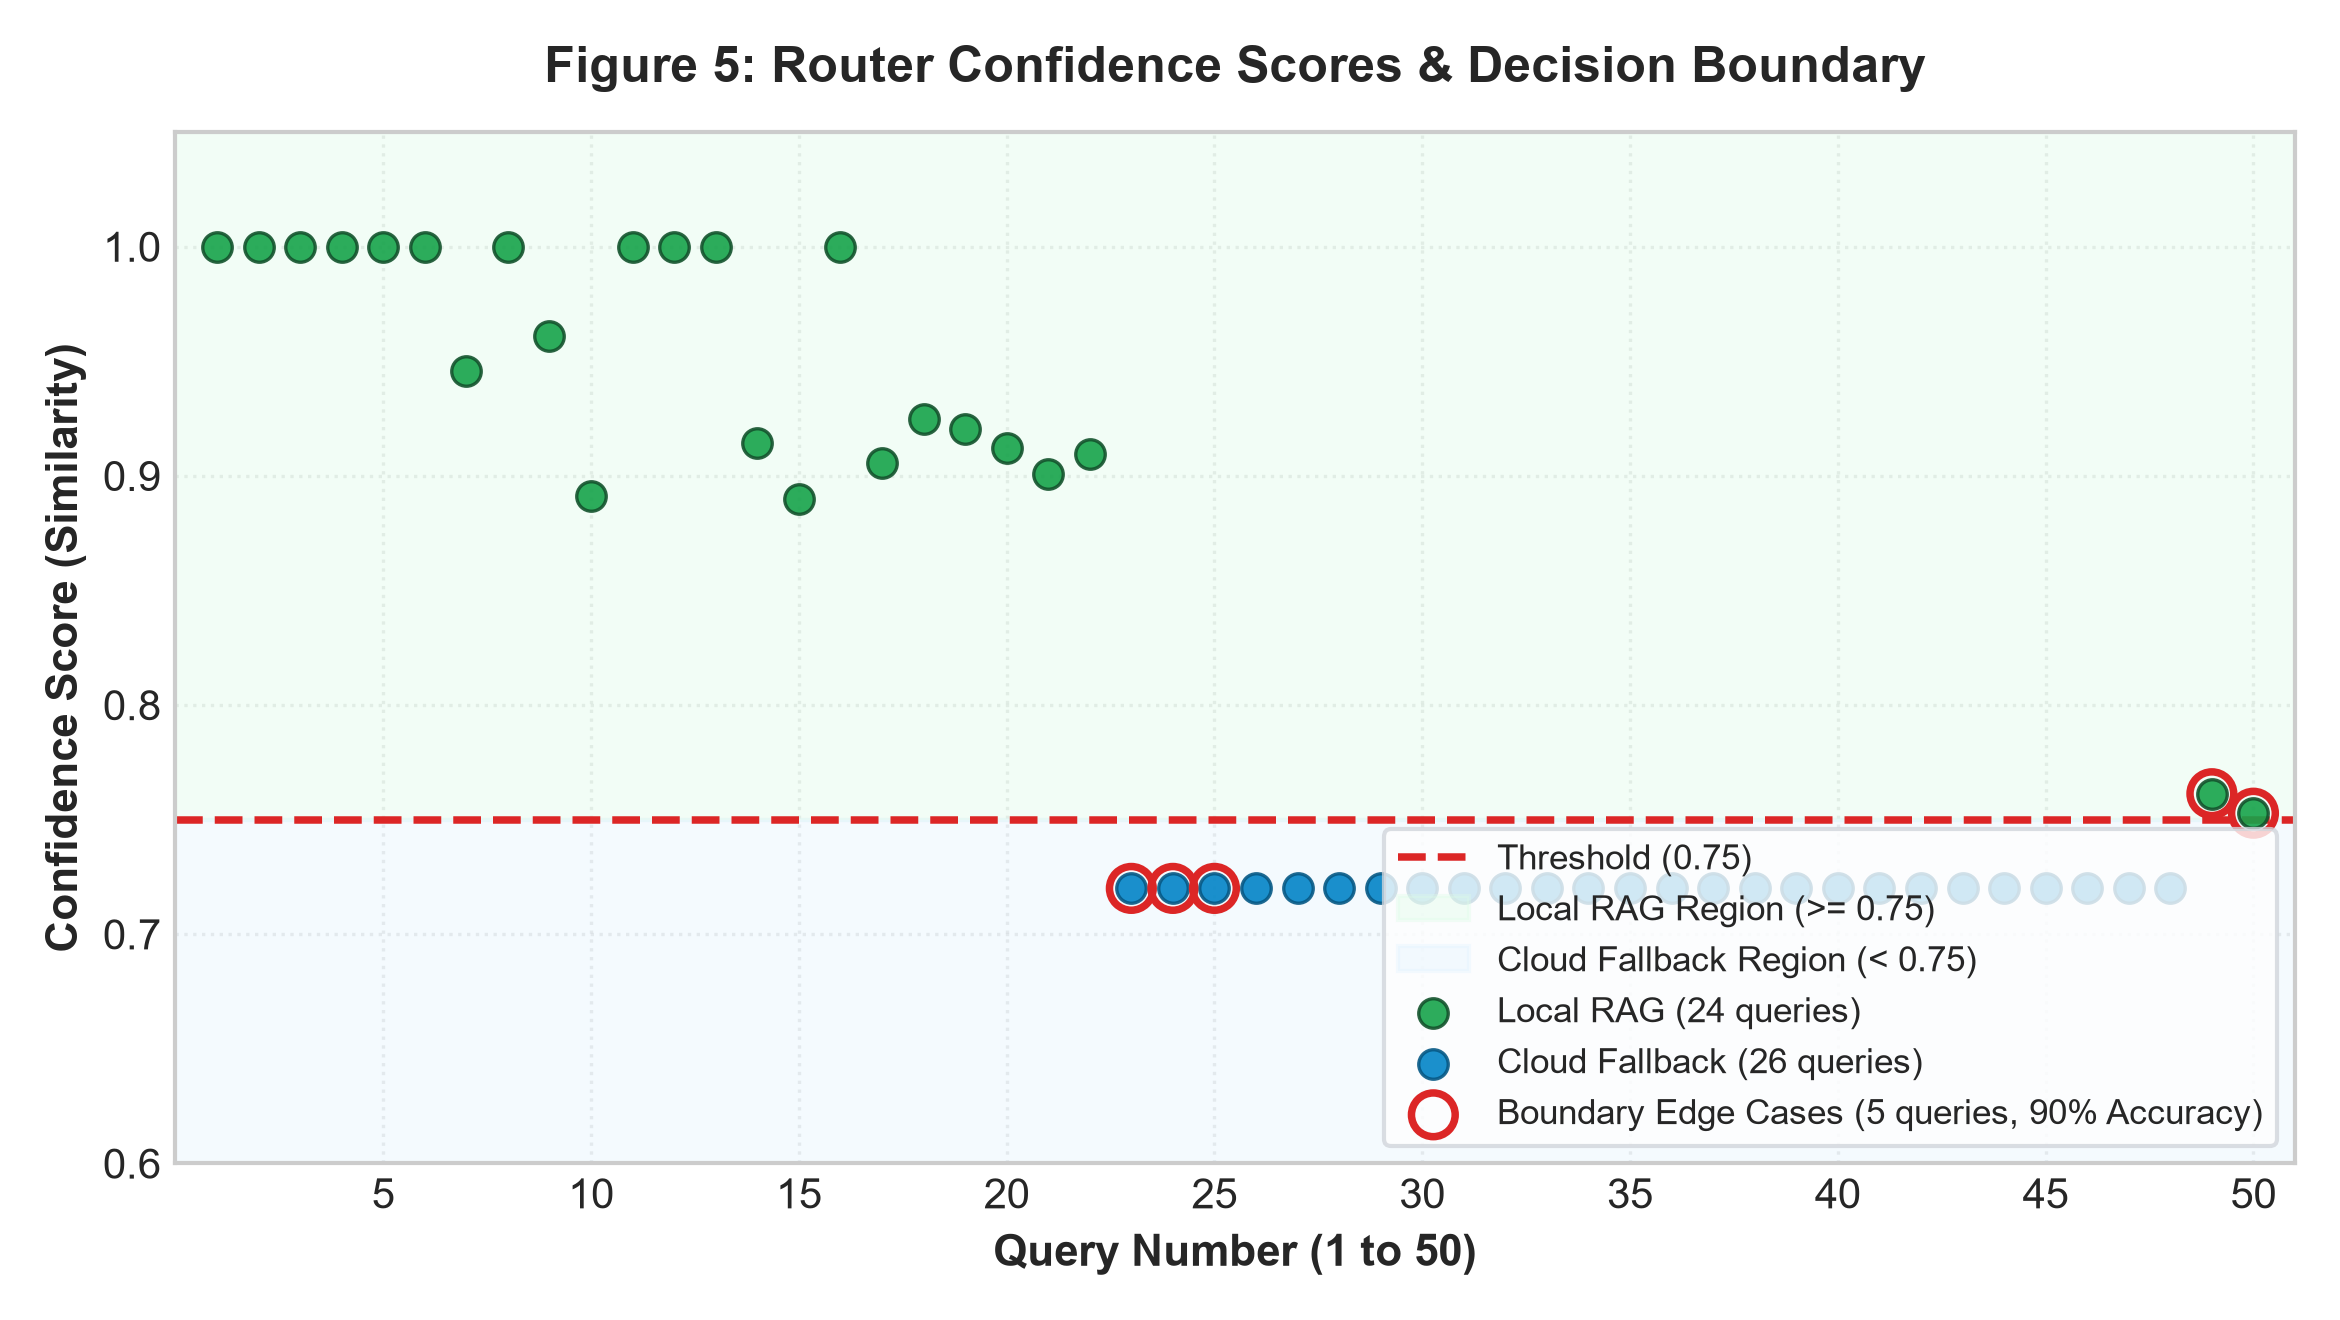
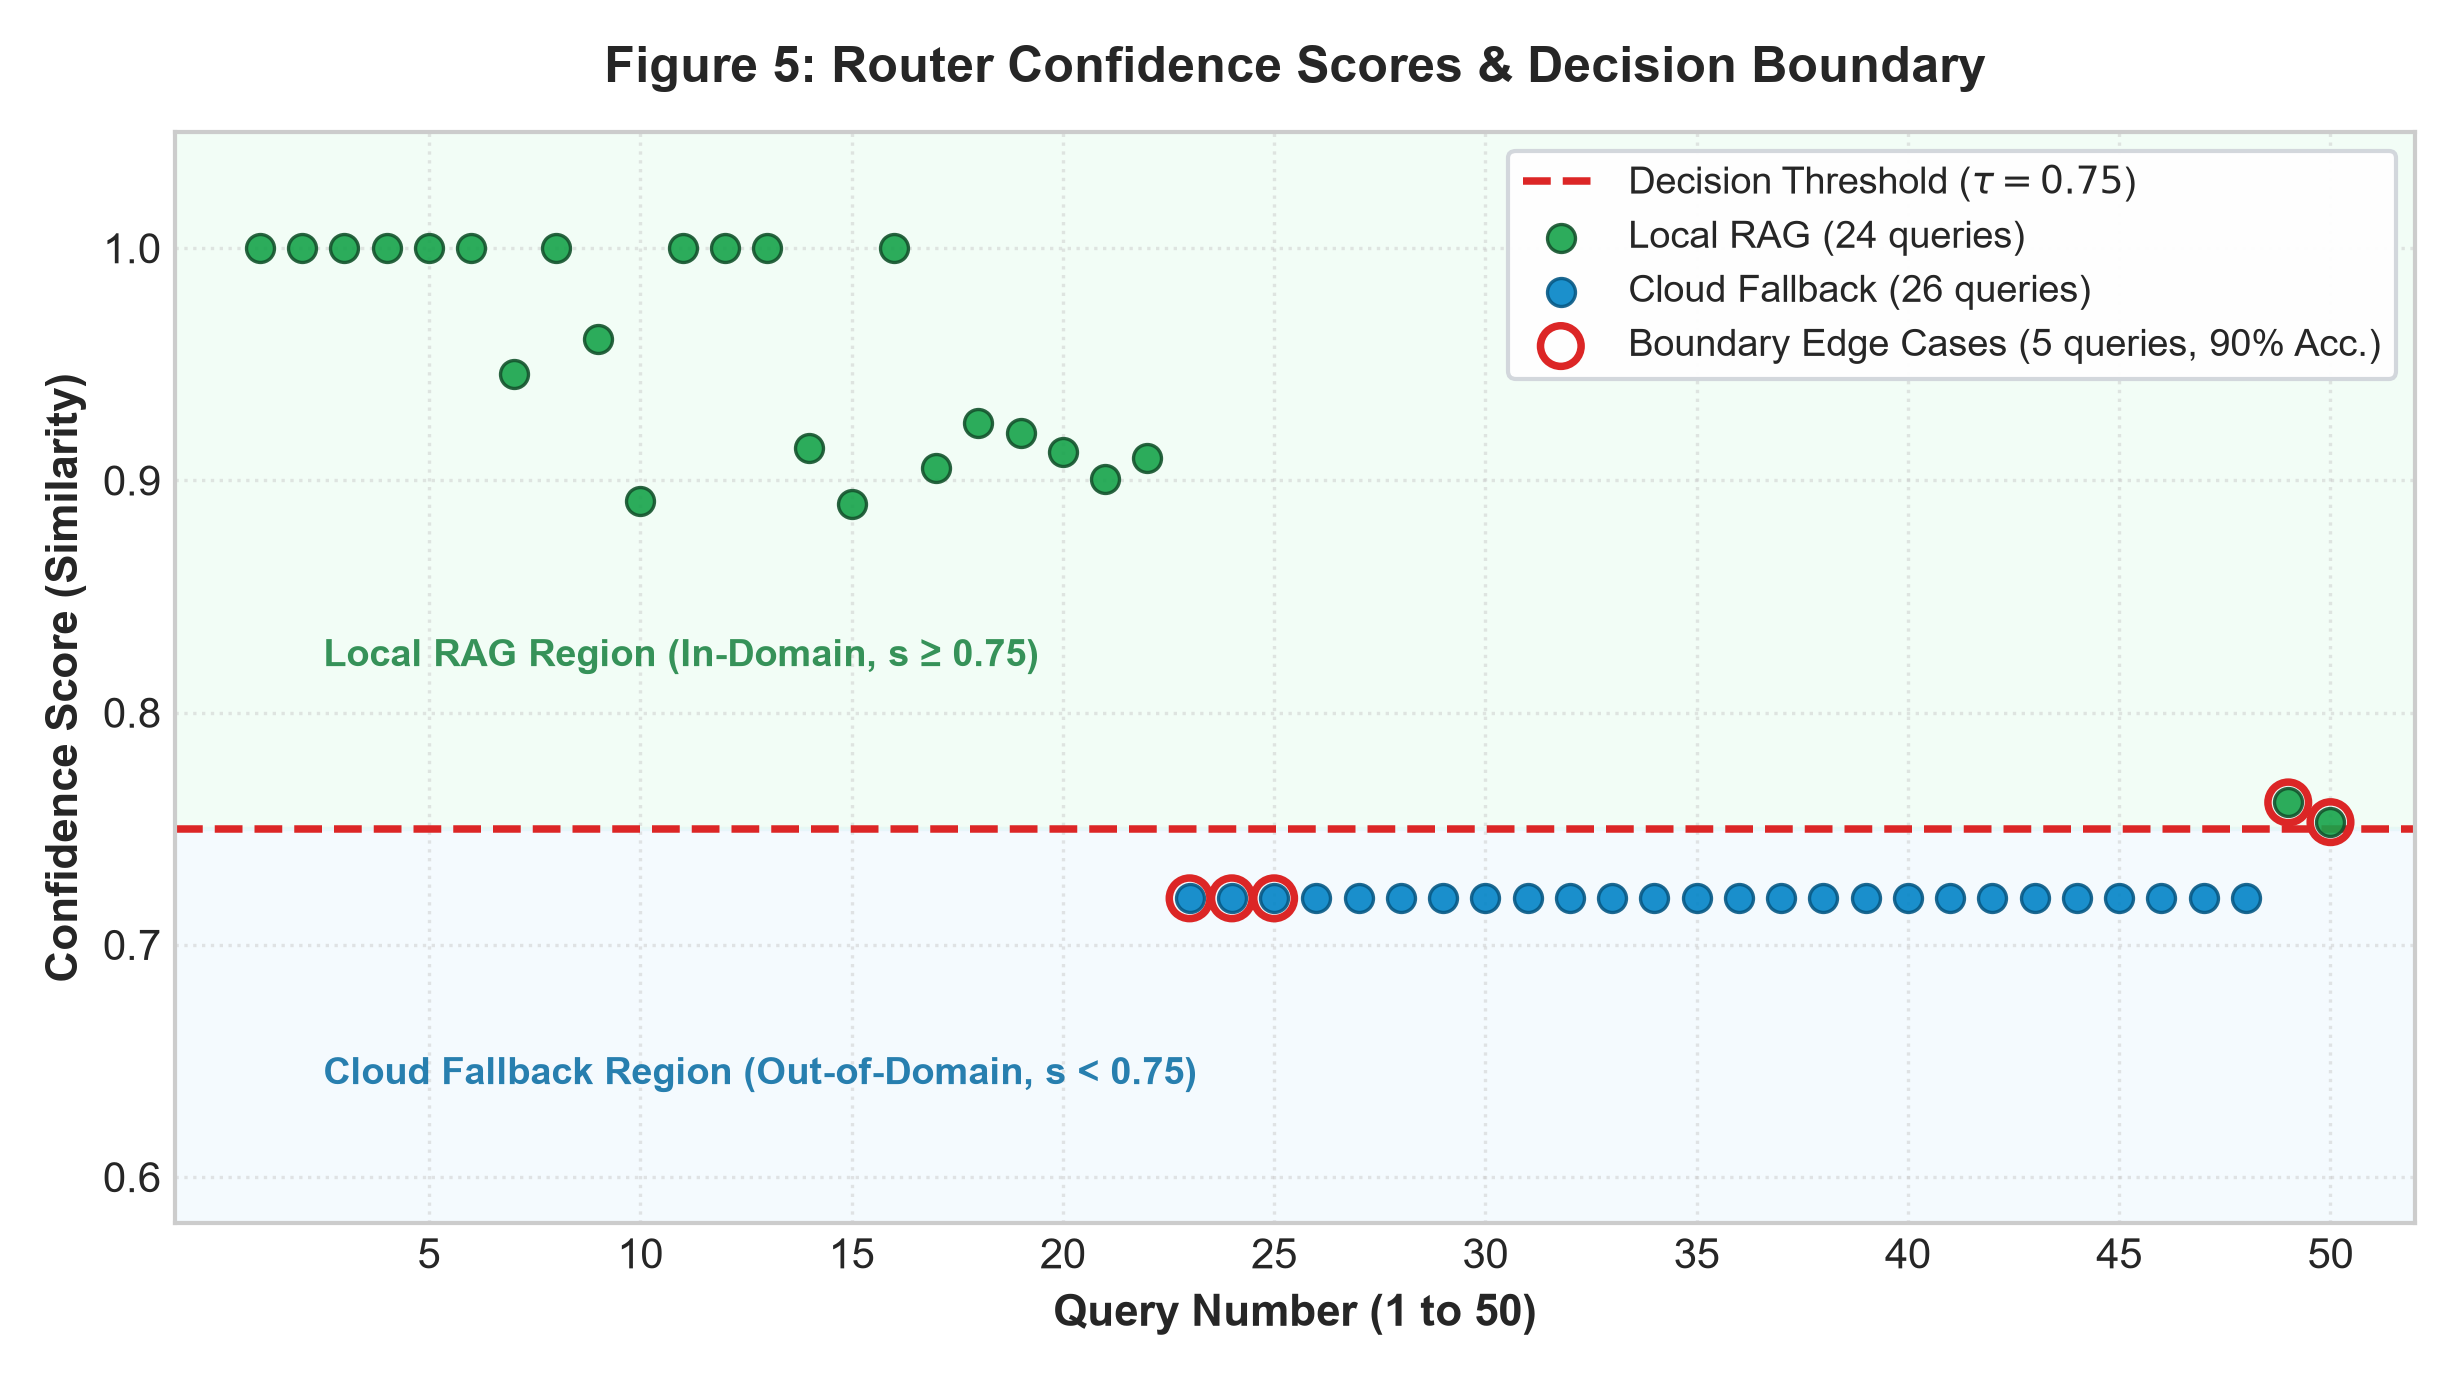
fix(figures): eliminate legend and label overlaps in Figure 5 confidence scatter plot

diff --git a/backend/generate_charts.py b/backend/generate_charts.py
@@ -145,17 +145,44 @@ def generate_fig4_latency(records: List[Dict[str, Any]], out_path: Path) -> None
 
 
 def generate_fig5_confidence(records: List[Dict[str, Any]], out_path: Path) -> None:
-    """Figure 5: Simple, clean scatter plot mapping confidence scores and 0.75 decision threshold."""
-    fig, ax = plt.subplots(figsize=(7.8, 4.4), dpi=300)
+    """Figure 5: Clean, uncrowded scatter plot mapping confidence scores and 0.75 decision threshold."""
+    fig, ax = plt.subplots(figsize=(8.2, 4.6), dpi=300)
 
     threshold = 0.75
 
-    # Simple horizontal threshold line
-    ax.axhline(y=threshold, color="#dc2626", linestyle="--", linewidth=1.8, label="Threshold (0.75)", zorder=2)
+    # Clean horizontal threshold line
+    ax.axhline(
+        y=threshold,
+        color="#dc2626",
+        linestyle="--",
+        linewidth=1.8,
+        label=r"Decision Threshold ($\tau = 0.75$)",
+        zorder=2,
+    )
 
-    # Clean, subtle operating zones
-    ax.axhspan(threshold, 1.05, color="#dcfce7", alpha=0.35, label="Local RAG Region (>= 0.75)")
-    ax.axhspan(0.58, threshold, color="#e0f2fe", alpha=0.35, label="Cloud Fallback Region (< 0.75)")
+    # Clean, subtle operating zones with direct text annotations
+    ax.axhspan(threshold, 1.05, color="#dcfce7", alpha=0.35, zorder=0)
+    ax.axhspan(0.58, threshold, color="#e0f2fe", alpha=0.35, zorder=0)
+
+    # Direct region labels placed in open areas
+    ax.text(
+        2.5, 0.82,
+        "Local RAG Region (In-Domain, s ≥ 0.75)",
+        fontsize=9,
+        fontweight="bold",
+        color="#15803d",
+        alpha=0.85,
+        zorder=1,
+    )
+    ax.text(
+        2.5, 0.64,
+        "Cloud Fallback Region (Out-of-Domain, s < 0.75)",
+        fontsize=9,
+        fontweight="bold",
+        color="#0369a1",
+        alpha=0.85,
+        zorder=1,
+    )
 
     local_x, local_y = [], []
     cloud_x, cloud_y = [], []
@@ -181,33 +208,42 @@ def generate_fig5_confidence(records: List[Dict[str, Any]], out_path: Path) -> N
     # Plot Local Points (Green)
     ax.scatter(
         local_x, local_y,
-        color="#16a34a", s=50, alpha=0.9, edgecolor="#14532d", linewidth=0.8,
+        color="#16a34a", s=45, alpha=0.9, edgecolor="#14532d", linewidth=0.8,
         label=f"Local RAG ({len(local_x)} queries)", zorder=3,
     )
 
     # Plot Cloud Points (Blue)
     ax.scatter(
         cloud_x, cloud_y,
-        color="#0284c7", s=50, alpha=0.9, edgecolor="#075985", linewidth=0.8,
+        color="#0284c7", s=45, alpha=0.9, edgecolor="#075985", linewidth=0.8,
         label=f"Cloud Fallback ({len(cloud_x)} queries)", zorder=3,
     )
 
-    # Highlight the 5 Edge Cases (Red Ring)
+    # Highlight the 5 Boundary Cases (Crisp Red Ring)
     ax.scatter(
         edge_x, edge_y,
-        facecolors="none", edgecolors="#dc2626", s=110, linewidth=1.8,
-        label=f"Boundary Edge Cases ({len(edge_x)} queries, 90% Accuracy)", zorder=4,
+        facecolors="none", edgecolors="#dc2626", s=95, linewidth=1.8,
+        label=f"Boundary Edge Cases ({len(edge_x)} queries, 90% Acc.)", zorder=4,
     )
 
     ax.set_title("Figure 5: Router Confidence Scores & Decision Boundary", fontsize=12, fontweight="bold", pad=12)
     ax.set_xlabel("Query Number (1 to 50)", fontsize=10.5, fontweight="bold")
     ax.set_ylabel("Confidence Score (Similarity)", fontsize=10.5, fontweight="bold")
-    ax.set_xlim(0, 51)
-    ax.set_ylim(0.60, 1.05)
+    ax.set_xlim(-1, 52)
+    ax.set_ylim(0.58, 1.05)
     ax.set_xticks(range(5, 51, 5))
 
     ax.grid(True, linestyle=":", alpha=0.5)
-    ax.legend(frameon=True, loc="lower right", fontsize=8.5, edgecolor="#d1d5db")
+    
+    # Legend in UPPER RIGHT - 100% free of data points
+    ax.legend(
+        frameon=True,
+        loc="upper right",
+        fontsize=9,
+        edgecolor="#d1d5db",
+        facecolor="#ffffff",
+        framealpha=0.95,
+    )
 
     plt.tight_layout()
     fig.savefig(out_path, dpi=300)
